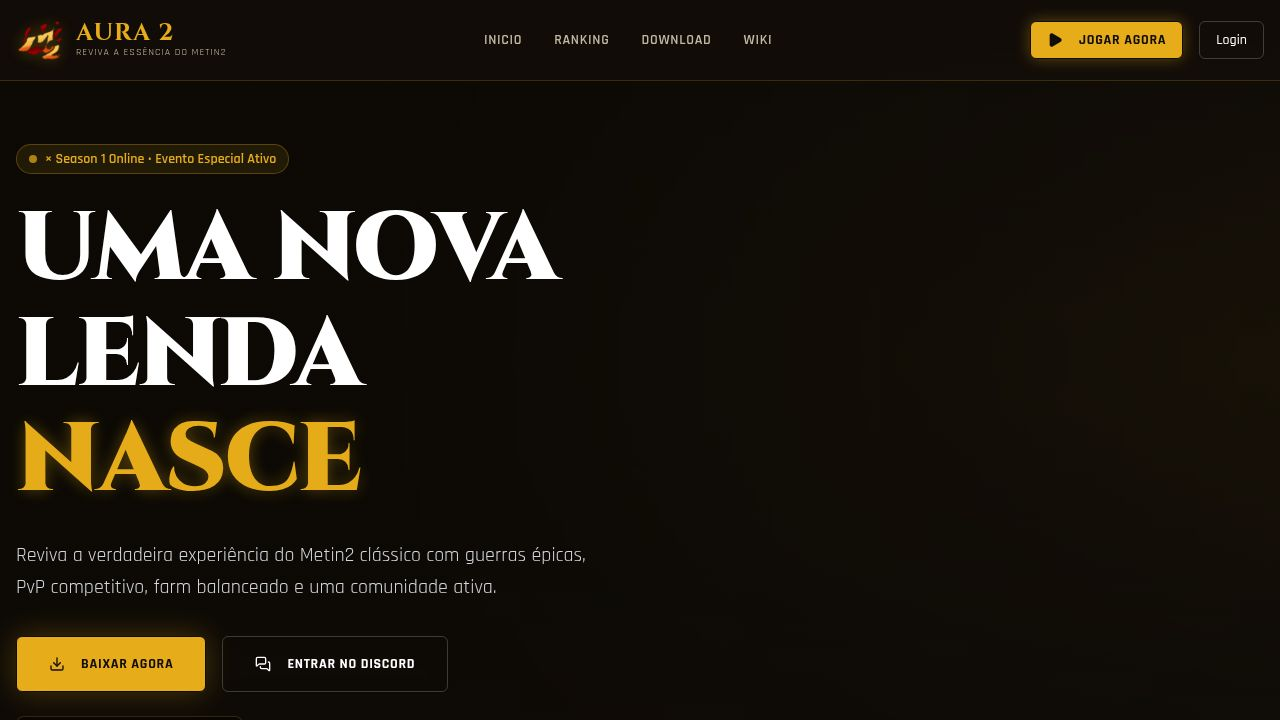
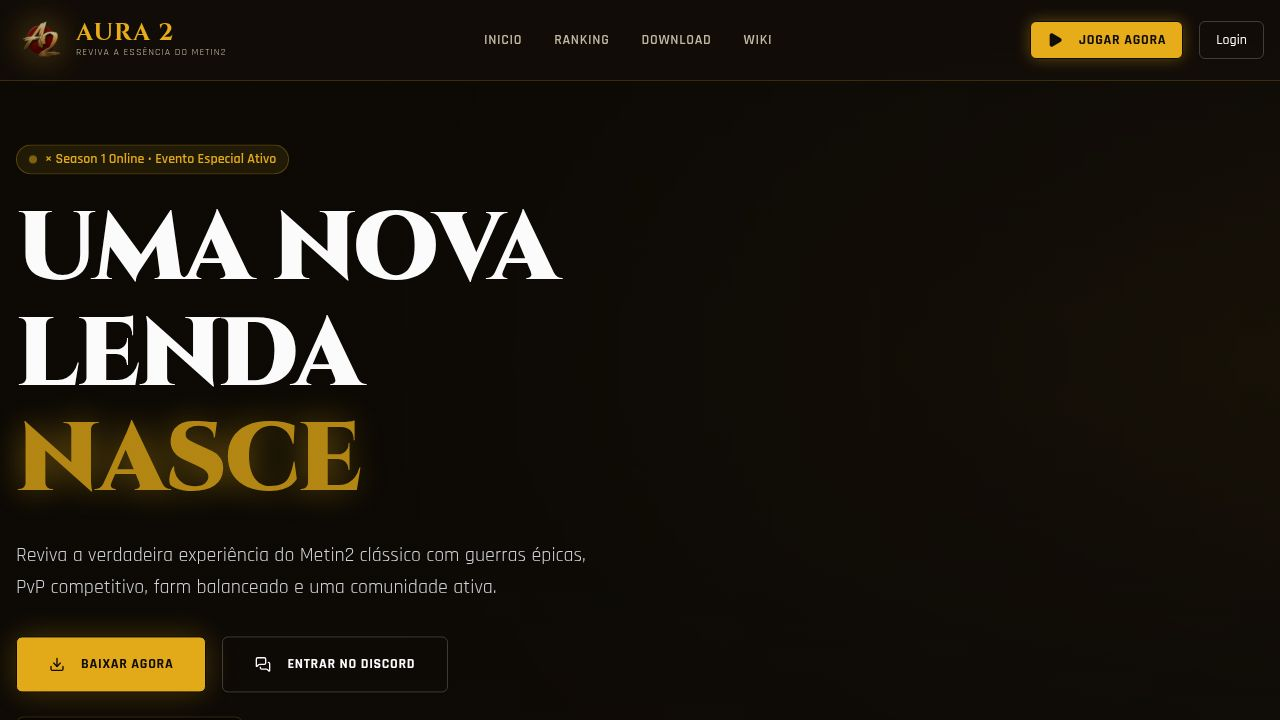
Improve password reset functionality to handle database connection errors gracefully
Add try-catch blocks to the forgot-password endpoint in `auth.ts` to gracefully handle potential MySQL connection failures, ensuring the endpoint remains functional. The `opengraph.jpg` file was also updated.

Replit-Commit-Author: Agent
Replit-Commit-Session-Id: 3db3ffde-2a4a-4d99-9395-369b799bd507
Replit-Commit-Checkpoint-Type: full_checkpoint
Replit-Commit-Event-Id: 28b8344c-3549-4fb7-a630-19469f72f912
Replit-Commit-Screenshot-Url: https://storage.googleapis.com/screenshot-production-us-central1/3907a54f-c254-4889-ac95-bf8e1e67b350/3db3ffde-2a4a-4d99-9395-369b799bd507/qhzuhie
Replit-Helium-Checkpoint-Created: true

Changed region(s): [[0.0, 0.5806, 0.2812, 0.7028], [0.0, 0.0306, 0.0625, 0.0917]]

diff --git a/artifacts/api-server/src/routes/auth.ts b/artifacts/api-server/src/routes/auth.ts
@@ -84,28 +84,29 @@ router.post("/auth/forgot-password", async (req, res) => {
     return;
   }
 
-  const [rows] = await pool.execute(
-    "SELECT username, email FROM accounts WHERE email = ? LIMIT 1",
-    [email]
-  ) as [any[], any];
-
-  if (rows.length === 0) {
-    res.json({ message: "Se o e-mail existir, receberás as instruções." });
-    return;
-  }
-
-  const { username } = rows[0];
-  const token = createResetToken(email, username);
-  const domains = process.env.REPLIT_DOMAINS?.split(",")[0] || "aura2.com.br";
-  const resetUrl = `https://${domains}/redefinir-senha?token=${token}`;
-
   try {
-    await sendPasswordResetEmail(email, resetUrl);
+    const [rows] = await pool.execute(
+      "SELECT username, email FROM accounts WHERE email = ? LIMIT 1",
+      [email]
+    ) as [any[], any];
+
+    if (rows.length > 0) {
+      const { username } = rows[0];
+      const token = createResetToken(email, username);
+      const domains = process.env.REPLIT_DOMAINS?.split(",")[0] || "aura2.com.br";
+      const resetUrl = `https://${domains}/redefinir-senha?token=${token}`;
+
+      try {
+        await sendPasswordResetEmail(email, resetUrl);
+        req.log.info({ username }, "Password reset requested");
+      } catch (err) {
+        req.log.error({ err }, "Failed to send reset email");
+      }
+    }
   } catch (err) {
-    req.log.error({ err }, "Failed to send reset email");
+    req.log.warn({ err }, "DB unavailable during forgot-password");
   }
 
-  req.log.info({ username }, "Password reset requested");
   res.json({ message: "Se o e-mail existir, receberás as instruções." });
 });
 